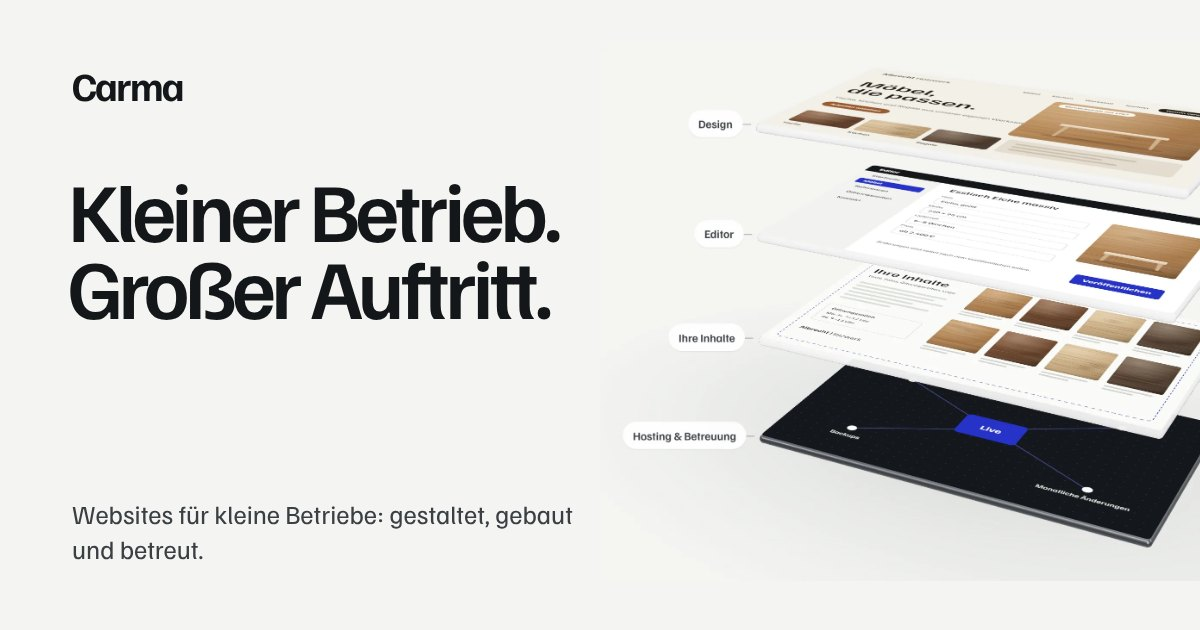
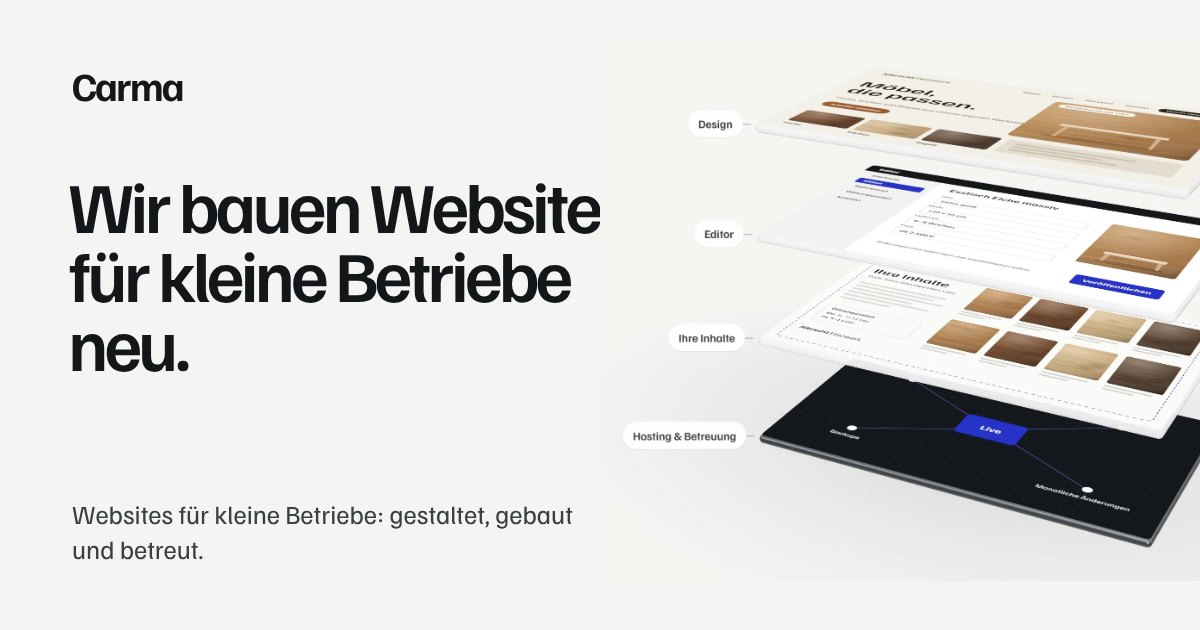
Portrait, support@ email, plain headline, normal footer, open FAQ
- About block shows Marc's portrait
- Contact email is support@carmasearch.com; the form sends there by default
- Hero headline is one plain sentence; share images updated
- Footer without the giant wordmark
- FAQ as two columns of open answers instead of an accordion

Claude-Session: https://claude.ai/code/session_01WrA9DjrVijwibUMAKcv2ZE

Changed region(s): [[0.0617, 0.2714, 0.5242, 0.6032]]

diff --git a/app/globals.css b/app/globals.css
@@ -339,11 +339,11 @@ a {
 }
 
 .stack__title {
-  font-size: var(--step-5);
-  line-height: 0.9;
+  font-size: clamp(2.8rem, 1.6rem + 4.2vw, 5.6rem);
+  line-height: 0.95;
   font-weight: 600;
-  letter-spacing: -0.055em;
-  max-width: 9.5ch;
+  letter-spacing: -0.05em;
+  max-width: 11ch;
   margin-left: -0.04em;
 }
 .stack__lede {
@@ -1498,61 +1498,32 @@ html:not(.fx) .service {
   }
 }
 
-/* ---------- FAQ ---------- */
+/* ---------- FAQ: every answer readable without clicking ---------- */
 .faq {
   padding-block: clamp(64px, 9vw, 140px);
 }
-.faq__inner {
-  display: grid;
-  grid-template-columns: minmax(0, 1fr) minmax(0, 1.2fr);
-  gap: 24px 64px;
+.faq__list {
+  margin-top: clamp(32px, 4vw, 56px);
+  columns: 2;
+  column-gap: clamp(40px, 6vw, 96px);
 }
 .qa {
+  break-inside: avoid;
+  padding-block: 22px 26px;
   border-top: 1px solid var(--line);
 }
-.qa:last-child {
-  border-bottom: 1px solid var(--line);
-}
-.qa summary {
-  list-style: none;
-  cursor: pointer;
-  padding: 24px 40px 24px 0;
-  position: relative;
+.qa h3 {
   font-size: var(--step-1);
   font-weight: 600;
   letter-spacing: -0.01em;
 }
-.qa summary::-webkit-details-marker {
-  display: none;
-}
-.qa summary::after {
-  content: '';
-  position: absolute;
-  right: 6px;
-  top: 50%;
-  width: 12px;
-  height: 12px;
-  margin-top: -9px;
-  border-right: 2px solid var(--ink);
-  border-bottom: 2px solid var(--ink);
-  transform: rotate(45deg);
-  transition: transform 0.25s ease;
-}
-.qa[open] summary::after {
-  transform: rotate(-135deg);
-  margin-top: -3px;
-}
-.qa summary:hover {
-  color: var(--blue);
-}
 .qa p {
-  padding-bottom: 24px;
+  margin-top: 8px;
   color: var(--ink-2);
-  max-width: 56ch;
 }
 @media (max-width: 860px) {
-  .faq__inner {
-    grid-template-columns: 1fr;
+  .faq__list {
+    columns: 1;
   }
 }
 

diff --git a/content/en.ts b/content/en.ts
@@ -3,7 +3,7 @@ import type { Dict } from './types';
 export const en: Dict = {
   lang: 'en',
   meta: {
-    title: 'Carma – Flagship websites for small businesses',
+    title: 'Carma – Websites for small businesses',
     description:
       'Carma rebuilds outdated small-business websites into fast, beautiful sites you can update yourself, and looks after them once they are live.',
   },
@@ -20,8 +20,8 @@ export const en: Dict = {
     legal: 'Legal',
   },
   hero: {
-    title: 'Small business. Flagship website.',
-    lede: 'We rebuild outdated websites into fast, beautiful sites you can update yourself, and we keep looking after them once they are live.',
+    title: 'We rebuild websites for small businesses.',
+    lede: 'Your outdated site becomes a fast, beautiful one you can update yourself, and we keep looking after it once it is live.',
     primary: 'Book a free first call',
     secondary: 'See a before and after',
     scrollHint: 'Scroll to see how a website is built',
@@ -200,5 +200,5 @@ export const en: Dict = {
     errorRetry: 'Your enquiry could not be sent just now. Please try again later.',
     emailFallback: 'Send an email',
   },
-  footer: { line: 'Flagship websites for small businesses.', imprint: 'Legal notice', privacy: 'Privacy', imprintHref: '/impressum', privacyHref: '/datenschutz' },
+  footer: { line: 'Websites for small businesses.', imprint: 'Legal notice', privacy: 'Privacy', imprintHref: '/impressum', privacyHref: '/datenschutz' },
 };

diff --git a/components/Chrome.tsx b/components/Chrome.tsx
@@ -31,13 +31,15 @@ export function Header({ t, home, solid = false, switchHref }: { t: Dict; home: 
   );
 }
 
-export function Footer({ t, big = false, switchHref }: { t: Dict; big?: boolean; switchHref?: string }) {
+export function Footer({ t, switchHref }: { t: Dict; big?: boolean; switchHref?: string }) {
   const other = t.lang === 'en' ? 'de' : 'en';
   return (
     <footer className="footer">
       <div className="wrap">
         <div className="footer__inner">
-          <p className="footer__line">{t.footer.line}</p>
+          <p className="footer__line">
+            <strong>{site.name}</strong> {t.footer.line}
+          </p>
           <nav className="footer__links" aria-label={t.nav.legal}>
             <Link href={t.footer.imprintHref}>{t.footer.imprint}</Link>
             <Link href={t.footer.privacyHref}>{t.footer.privacy}</Link>
@@ -49,11 +51,6 @@ export function Footer({ t, big = false, switchHref }: { t: Dict; big?: boolean;
             © {new Date().getFullYear()} {site.name}
           </p>
         </div>
-        {big && (
-          <p className="footer__mark" aria-hidden="true" data-reveal>
-            Carma
-          </p>
-        )}
       </div>
     </footer>
   );

diff --git a/site.config.ts b/site.config.ts
@@ -11,7 +11,7 @@ export const site = {
     street: 'Meersburger Straße 13',
     city: '88709 Hagnau am Bodensee',
     country: 'Deutschland',
-    email: 'marchaupter@outlook.com', // swap for the business address once it exists
+    email: 'support@carmasearch.com',
     phone: '', // optional, e.g. '+49 …'
     vatId: '', // USt-IdNr., if one exists
   },
@@ -23,7 +23,7 @@ export const site = {
     whatsapp: '' as string,
   },
   /** Portrait for the "who you deal with" block, e.g. '/marc.jpg' in /public. Empty shows initials. */
-  photo: '' as string,
+  photo: '/marc.webp' as string,
   /**
    * Price guide shown on the homepage. Both prices depend on the type and size of the business;
    * the site shows the build range and the care starting price. Set show to false to go back

diff --git a/app/actions/contact.ts b/app/actions/contact.ts
@@ -1,4 +1,5 @@
 'use server';
+import { site } from '@/site.config';
 
 /**
  * Contact form → email via Resend's REST API (no SDK needed).
@@ -44,7 +45,7 @@ export async function sendEnquiry(_prev: ContactState, form: FormData): Promise<
   if (!/^[^\s@]+@[^\s@]+\.[^\s@]+$/.test(email)) return { status: 'error', reason: 'email' };
 
   const apiKey = process.env.RESEND_API_KEY;
-  const to = process.env.CONTACT_TO;
+  const to = process.env.CONTACT_TO || site.owner.email;
   const from = process.env.CONTACT_FROM || 'Carma <onboarding@resend.dev>';
   if (!apiKey || !to) {
     console.error('[contact] RESEND_API_KEY or CONTACT_TO is not set');

diff --git a/content/de.ts b/content/de.ts
@@ -20,8 +20,8 @@ export const de: Dict = {
     legal: 'Rechtliches',
   },
   hero: {
-    title: 'Kleiner Betrieb. Großer Auftritt.',
-    lede: 'Wir bauen veraltete Websites zu schnellen, schönen Seiten um, die Sie selbst pflegen können, und kümmern uns danach weiter darum.',
+    title: 'Wir bauen Websites für kleine Betriebe neu.',
+    lede: 'Aus Ihrer veralteten Seite wird eine schnelle, schöne Website, die Sie selbst pflegen können. Danach kümmern wir uns weiter darum.',
     primary: 'Unverbindlich anfragen',
     secondary: 'Vorher–nachher ansehen',
     scrollHint: 'Scrollen: so ist eine Website aufgebaut',

diff --git a/components/Home.tsx b/components/Home.tsx
@@ -128,10 +128,10 @@ export function Home({ t }: { t: Dict }) {
             <RiseText id="faq-title" className="h2" text={t.faq.title} />
             <div className="faq__list">
               {t.faq.items.map((f) => (
-                <details key={f.q} className="qa">
-                  <summary>{f.q}</summary>
+                <div key={f.q} className="qa">
+                  <h3>{f.q}</h3>
                   <p>{f.a}</p>
-                </details>
+                </div>
               ))}
             </div>
           </div>

diff --git a/README.md b/README.md
@@ -43,7 +43,7 @@ Always open the draft before sending the link; adjust the headline, colour or ph
 
 1. **Contact form** – in Vercel > Project > Settings > Environment Variables add:
    - `RESEND_API_KEY` – from resend.com > API Keys
-   - `CONTACT_TO` – the inbox that receives enquiries
+   - `CONTACT_TO` – optional; enquiries go to the email in `site.config.ts` (support@carmasearch.com) unless this is set
    - `CONTACT_FROM` – e.g. `Carma <hallo@carmasearch.com>` once the domain is verified in Resend. Until then leave it out; Resend's test sender only delivers to your own Resend account email.
 2. Have the Impressum and Datenschutz text checked (e.g. with an e-Recht24 generator or your accountant/lawyer).
 
